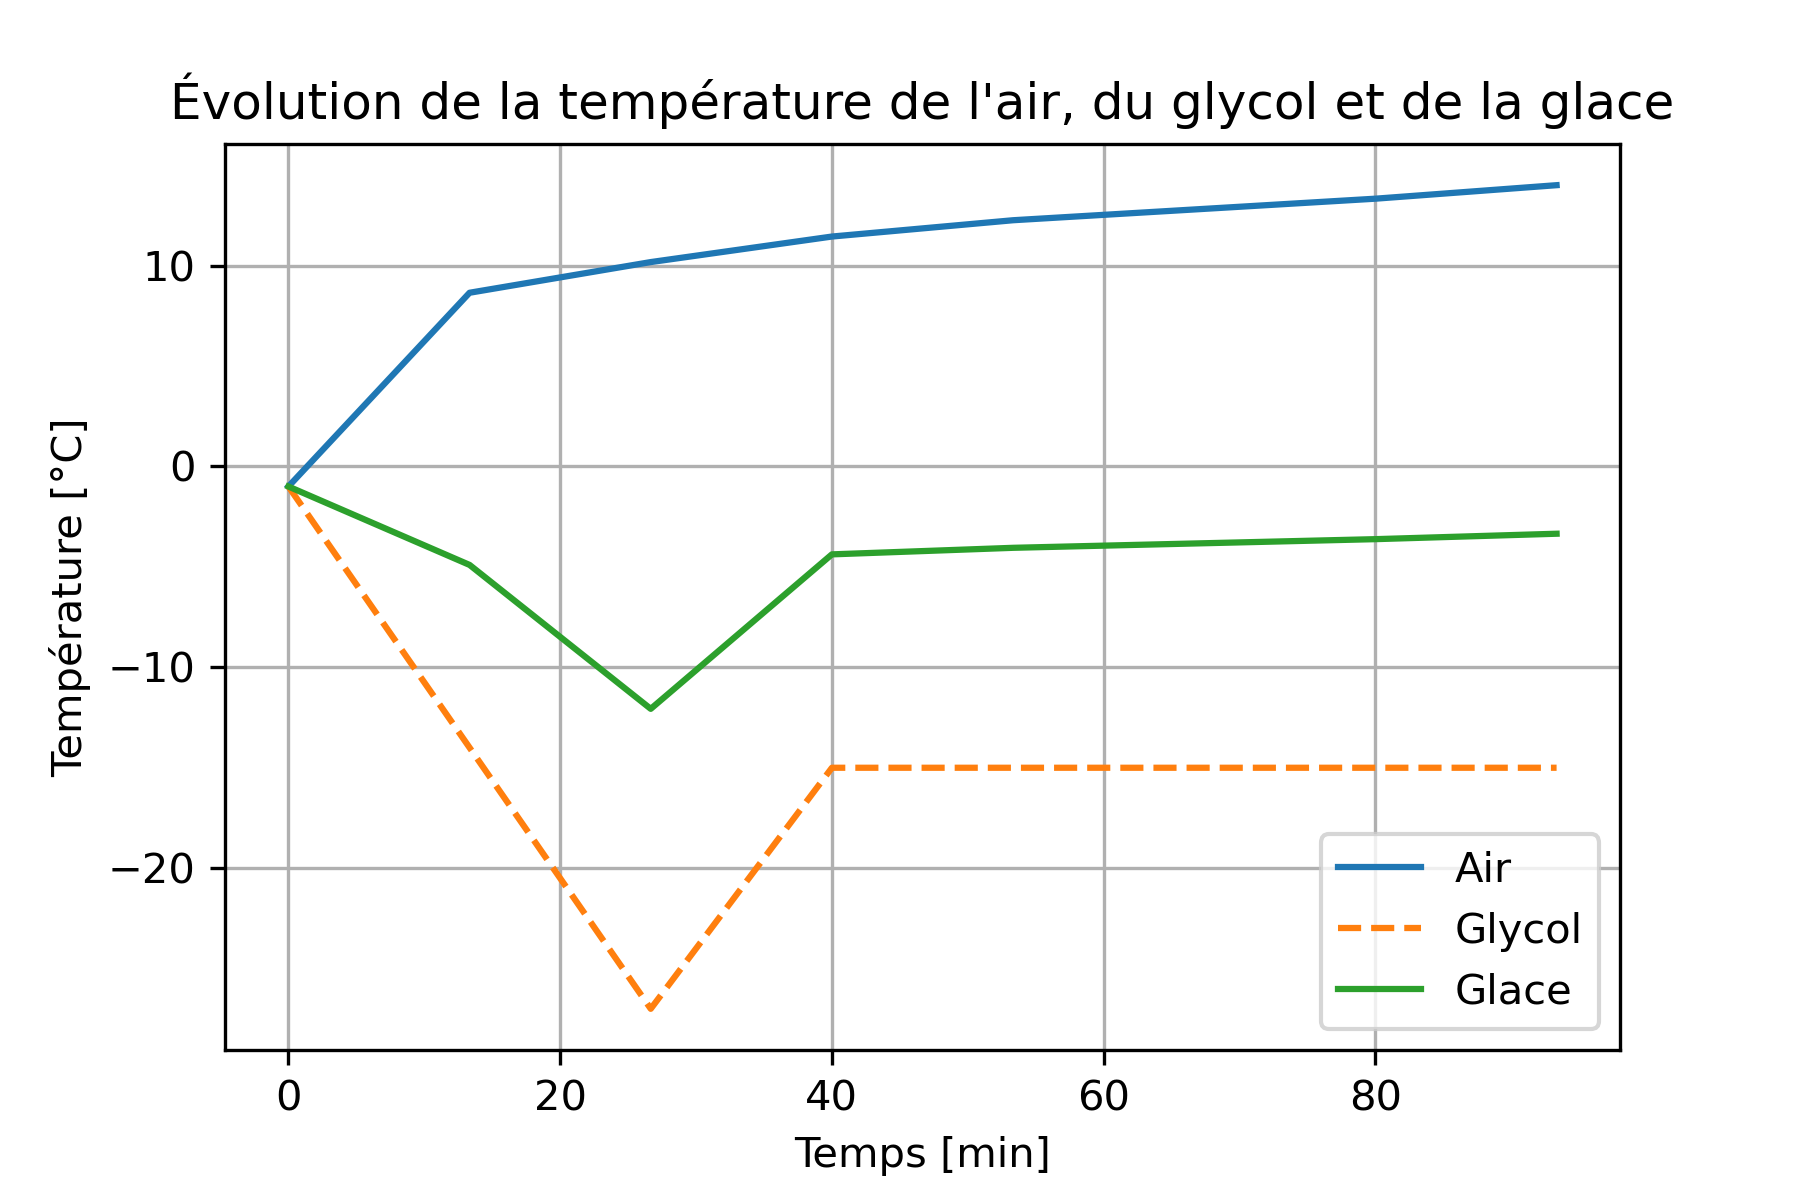
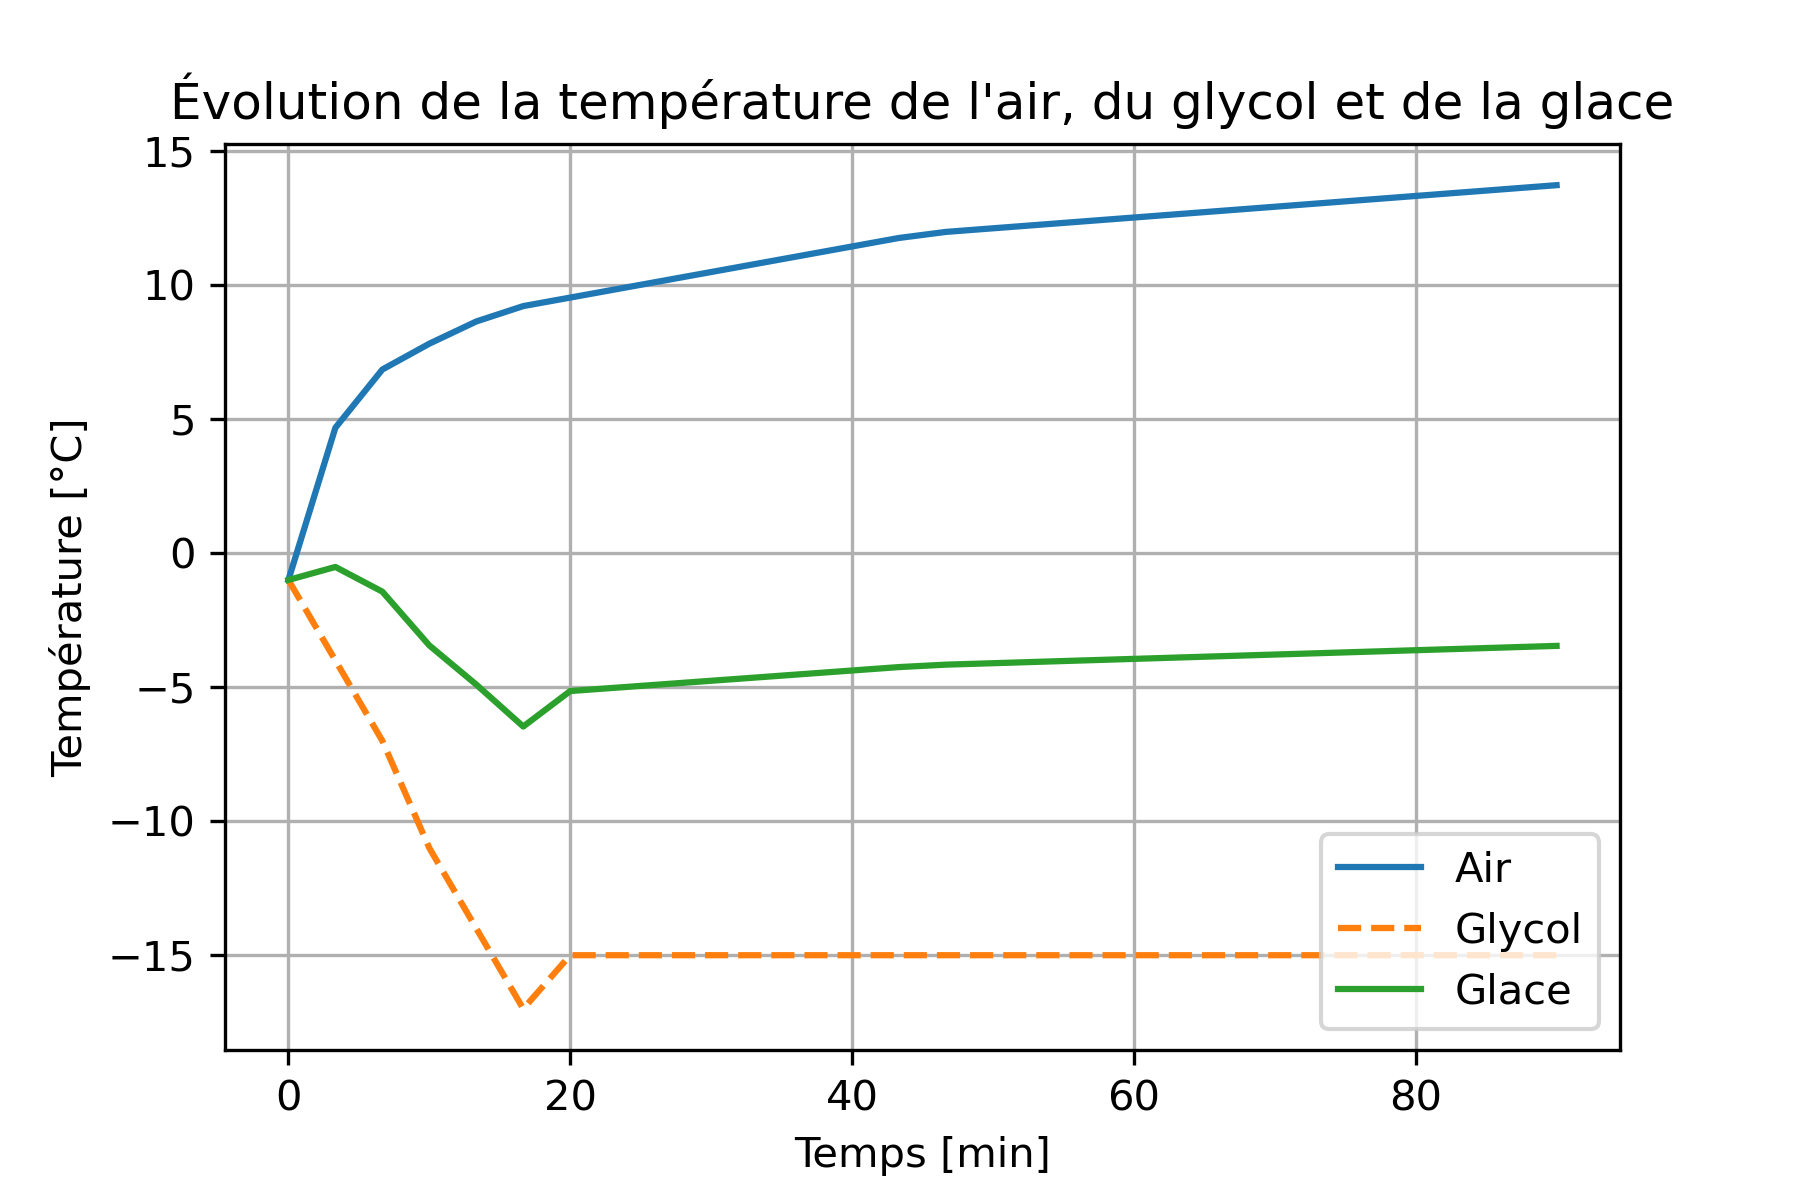
Fixed big dt

diff --git a/patinoire_analyse.py b/patinoire_analyse.py
@@ -33,7 +33,7 @@ class parametre():
 
 prm = parametre()
 Z = [0,prm.zb+prm.zg] 
-dt = 60
+dt = 200
 tf = 5400
 
 temperature_glace_experimental = np.array([-1.00,-6.35,-5.85,-5.50,-3.60,-3.25],dtype=float)
@@ -113,23 +113,25 @@ fonction_plot([points_temps_min], [temperature_air,temperature_liquide[:,1],temp
 
 Z_pos = mesh_1D(Z, nz)
 
-fonction_plot([Z_pos],[temperature_glace[1][:,-1],temperature_glace_permanent[1][:,-1]],["Transitoire","Permanent"],["solid","dashed"],["",""],
-         xlabel = "Position [m]",
-         ylabel = "Température [°C]",
-         title = "Profil de température dans la glace et le béton après 90min",
-         xlines=[0.05,0.15],
-         savename = "profile_temp_90") 
+if dt == 60 :
 
-"Profil de température après 30min"
-
-fonction_plot([Z_pos],[temperature_glace[1][:,30],temperature_glace_permanent[1][:,30]],["Transitoire","Permanent"],["solid","dashed"],["",""],
-         xlabel = "Position [m]",
-         ylabel = "Température [°C]",
-         title = "Profil de température dans la glace et le béton après 30min",
-         xlines=[0.05,0.15],
-         savename = "profile_temp_30") 
-
-"Évolution de la température en fonction du temps "
+    fonction_plot([Z_pos],[temperature_glace[1][:,-1],temperature_glace_permanent[1][:,-1]],["Transitoire","Permanent"],["solid","dashed"],["",""],
+             xlabel = "Position [m]",
+             ylabel = "Température [°C]",
+             title = "Profil de température dans la glace et le béton après 90min",
+             xlines=[0.05,0.15],
+             savename = "profile_temp_90") 
+    
+    "Profil de température après 30min"
+    
+    fonction_plot([Z_pos],[temperature_glace[1][:,30],temperature_glace_permanent[1][:,30]],["Transitoire","Permanent"],["solid","dashed"],["",""],
+             xlabel = "Position [m]",
+             ylabel = "Température [°C]",
+             title = "Profil de température dans la glace et le béton après 30min",
+             xlines=[0.05,0.15],
+             savename = "profile_temp_30") 
+    
+    "Évolution de la température en fonction du temps "
 
 
 fonction_plot([points_temps_min,temps_temperature_experimental],[temperature_glace[1][-1,:],temperature_glace_experimental],["MDF","Expérimental"],["solid","dashed"],["",""],
